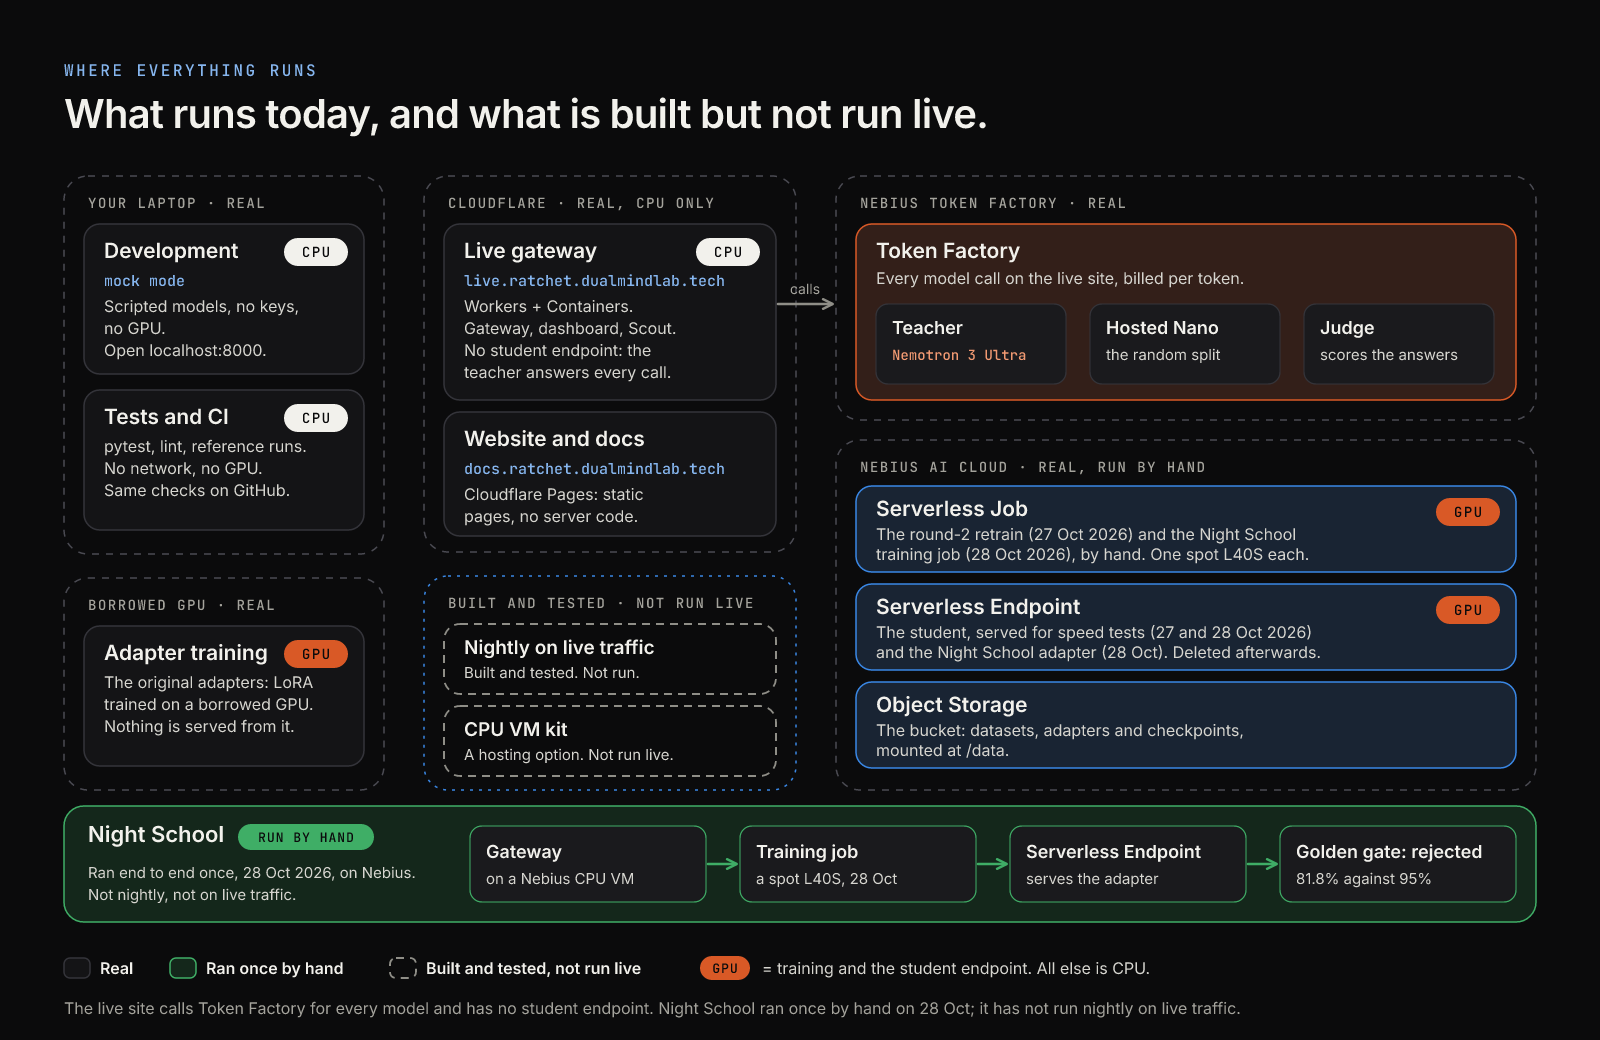
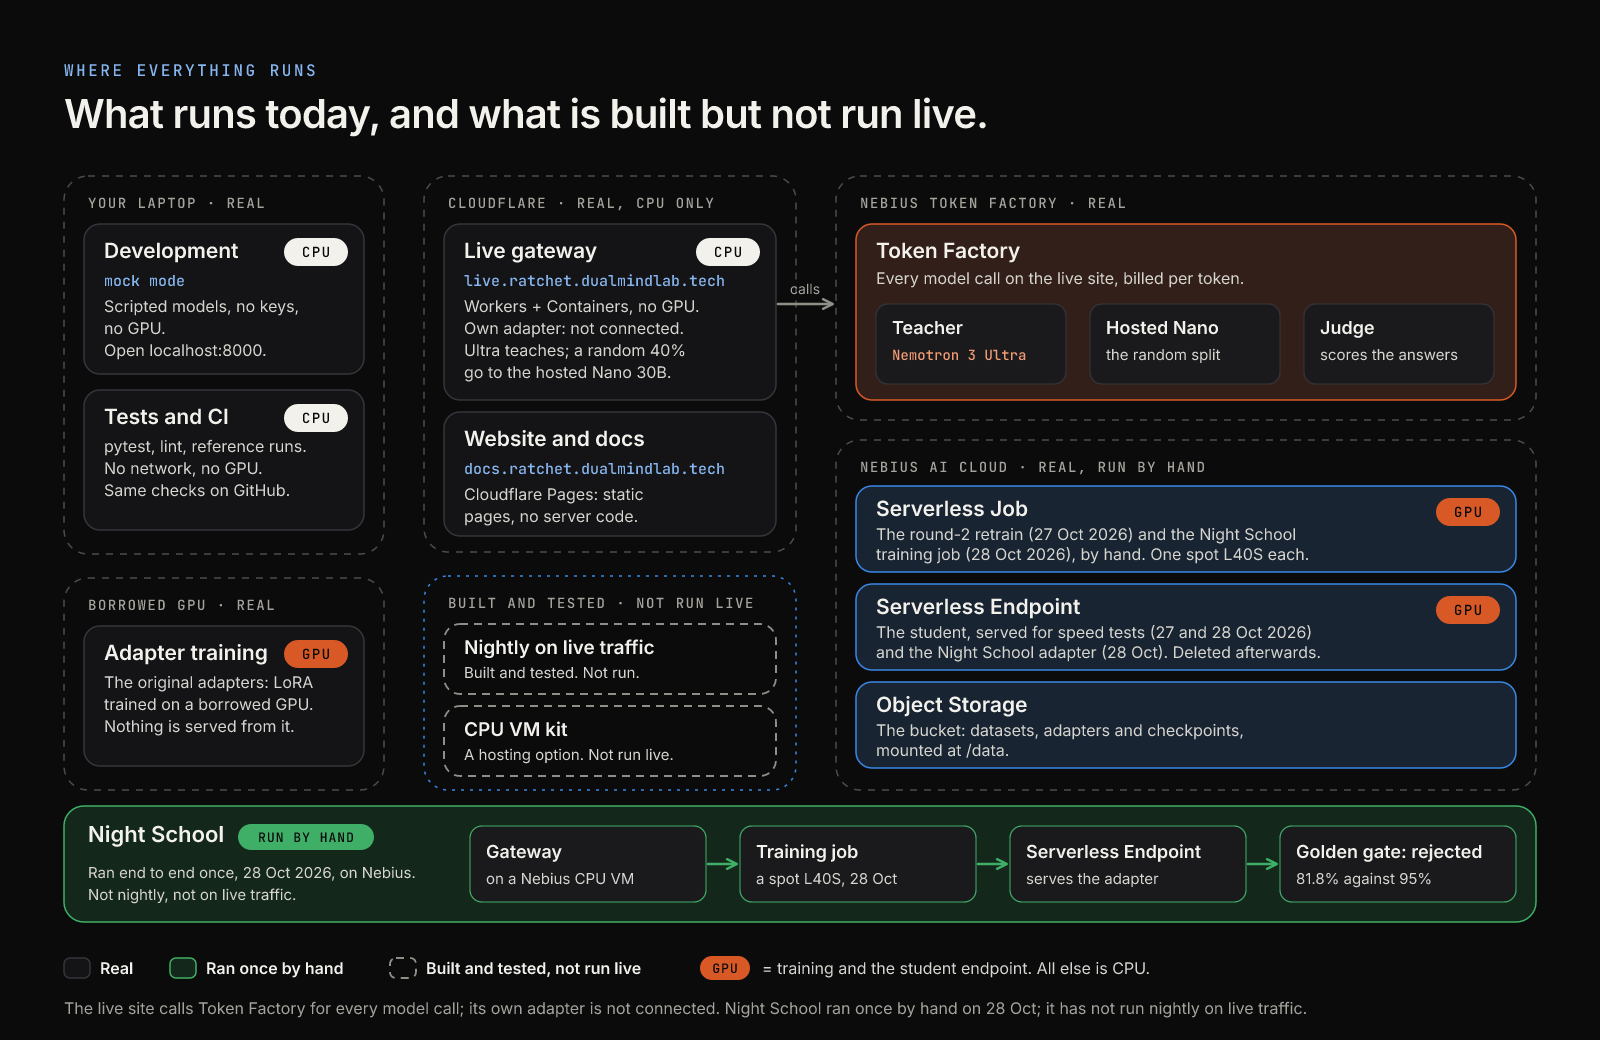
Fix the live split claim in the judges pack and web, add server_errors, stop the receipts 401, remove bare zeros
server_errors counts failed model calls and gateway 5xx only, so refused keys no longer show as errors. The public /judges page no longer calls the private /ratchet/receipts.

Changed region(s): [[0.2812, 0.9538, 0.8125, 0.9846], [0.2812, 0.2769, 0.4375, 0.3692]]

diff --git a/web/src/lib/measured-model.ts b/web/src/lib/measured-model.ts
@@ -348,7 +348,10 @@ export interface Persistent {
     student_tokens_in: number;
     student_tokens_out: number;
     cost_usd: number;
+    /** Every failures row, a refused key included. Kept for compatibility; the pages show `server_errors`. */
     errors: number;
+    /** Failed model calls and the gateway's own 5xx only. Absent from a Worker that has not started counting it. */
+    server_errors?: number;
     scout_runs: number;
   };
 }
@@ -362,6 +365,10 @@ export function parsePersistent(raw: unknown): Persistent | null {
   if (r.recorded !== true || typeof r.since !== "string" || typeof r.totals !== "object" || r.totals === null) return null;
   const t = r.totals as Record<string, unknown>;
   const totals = {} as Persistent["totals"];
+  if (t.server_errors !== undefined) {
+    if (typeof t.server_errors !== "number" || !Number.isFinite(t.server_errors) || t.server_errors < 0) return null;
+    totals.server_errors = t.server_errors;
+  }
   for (const k of TOTAL_KEYS) {
     const v = t[k];
     if (typeof v !== "number" || !Number.isFinite(v) || v < 0) return null;
@@ -377,7 +384,7 @@ export function hasLiveTraffic(p: Persistent | null): p is Persistent {
 
 export interface LiveLine {
   headline: string;
-  items: { label: string; value: string }[];
+  items: { label: string; value: string; hint?: string }[];
   note: string | null;
 }
 
@@ -387,12 +394,15 @@ export function liveLine(p: Persistent): LiveLine {
   const items = [
     { label: "Requests", value: fmtInt(t.requests) },
     { label: "Teacher", value: fmtInt(t.requests_teacher) },
-    { label: "Random split", value: fmtInt(t.requests_split) },
-    { label: "Student", value: fmtInt(t.requests_student) },
+    t.requests_split > 0 ? { label: "Random split", value: fmtInt(t.requests_split), hint: "sent to the hosted Nano 30B" } : { label: "Random split", value: "none so far", hint: "no requests sent to the hosted Nano 30B yet" },
+    t.requests_student > 0 ? { label: "Student", value: fmtInt(t.requests_student) } : { label: "Student", value: "none", hint: "Ratchet's own adapter is not connected to the live site" },
     { label: "Token Factory cost", value: fmtUsd(t.cost_usd) },
-    { label: "Scout runs", value: fmtInt(t.scout_runs) },
-    { label: "Errors", value: fmtInt(t.errors) },
+    t.scout_runs > 0 ? { label: "Scout runs", value: fmtInt(t.scout_runs) } : { label: "Scout runs", value: "none so far" },
   ];
+  // Server errors: failed model calls and gateway 5xx. A refused key or a limit is not one, so `errors` is never shown.
+  if (t.server_errors !== undefined) {
+    items.push(t.server_errors === 0 ? { label: "Server errors", value: "none", hint: "no failed model calls" } : { label: "Server errors", value: fmtInt(t.server_errors), hint: "failed model calls" });
+  }
   const tokens = t.student_tokens_in + t.student_tokens_out;
   if (tokens > 0) items.splice(5, 0, { label: "Student tokens", value: fmtInt(tokens) });
   return {
@@ -408,12 +418,12 @@ export function nightSchoolWording(d: MeasuredData): { versions: string; pipelin
   if (d.nightschool.present && v) {
     const ran = `Night School ran end to end once on Nebius, by hand (${fmtDay(d.nightschool.date ?? "")}). The golden gate rejected ${v}, so it was never made live. The loop has not run nightly on live traffic.`;
     return {
-      versions: `No version has served on this live gateway, and the teacher answers every request. ${ran}`,
+      versions: `No version of Ratchet's own adapter has served on this live gateway; Ultra teaches, and a random 40% of eligible requests are answered by the hosted Nano 30B. ${ran}`,
       pipeline: ran,
     };
   }
   return {
-    versions: "No version on this live gateway: the nightly loop is built and tested but has not run on live traffic, so the teacher answers every request.",
+    versions: "No version on this live gateway: the nightly loop is built and tested but has not run on live traffic. Ratchet's own adapter is not connected to it; a random 40% of eligible requests are answered by the hosted Nano 30B.",
     pipeline: "The nightly loop is built and tested but has not run on live traffic.",
   };
 }

diff --git a/web/src/pages/judges/check.tsx b/web/src/pages/judges/check.tsx
@@ -128,8 +128,8 @@ export function SponsorsChapter() {
 
 const LIMITS = [
   "The adapters are small (Nemotron 3 Nano 4B, LoRA) and the published ones were trained on a borrowed GPU; the round-2 recipe was also retrained once on Nebius AI Cloud. At a 95% precision bar the text-to-SQL student answers 1 of 86 questions on exam 1 and none on exam 2, so it does not replace the teacher.",
-  "The main site's dashboard and chapters read the live gateway: its numbers come from real Token Factory calls, its teacher answers every request, and its ledger lives in the container's /tmp, so a restart empties it.",
-  "The gateway's live mode runs on Nebius Token Factory (a smoke run and the live gateway). The live gateway has no student endpoint yet, so the teacher answers every request; the student was served by hand, in two short sessions, on a Nebius endpoint for speed tests (then deleted), Night School ran end to end once on Nebius, by hand (28 Oct 2026), and the golden gate rejected that student, so it was never made live; the one-command Nebius host is built and tested offline, ready to run with make nebius-plan, and the nightly loop has not run nightly on live traffic. The web front end and the live gateway run on Cloudflare.",
+  "The main site's dashboard and chapters read the live gateway: its numbers come from real Token Factory calls, every model call on it runs on Token Factory, and its ledger lives in the container's /tmp, so a restart empties it.",
+  "The gateway's live mode runs on Nebius Token Factory (a smoke run and the live gateway). Ratchet's own adapter is not connected to the live gateway, where a random 40% of eligible requests are answered by the hosted Nano 30B; the student was served by hand, in two short sessions, on a Nebius endpoint for speed tests (then deleted), Night School ran end to end once on Nebius, by hand (28 Oct 2026), and the golden gate rejected that student, so it was never made live; the one-command Nebius host is built and tested offline, ready to run with make nebius-plan, and the nightly loop has not run nightly on live traffic. The web front end and the live gateway run on Cloudflare.",
   "Scout's live runs were all answered by the teacher; no trained student has served a Scout call. The Scout page runs on a mock research world unless the gateway is live.",
   "The ledger is a single SQLite file, written by one gateway process.",
 ];

diff --git a/web/src/pages/judges/inside-b.tsx b/web/src/pages/judges/inside-b.tsx
@@ -7,7 +7,7 @@ import { Button } from "@/components/ui/button";
 import { RealBadge } from "@/components/ui/real-badge";
 import { cn, fmtInt, fmtPct, fmtUsd } from "@/lib/utils";
 import { getJson, useGateway, useJudges } from "./data";
-import { alarmProgress, focusVersion, latestGlobalPeriod, nusdToUsd, shortHash, type Fetched } from "./judges-model";
+import { receiptsPath, alarmProgress, focusVersion, latestGlobalPeriod, nusdToUsd, shortHash, type Fetched } from "./judges-model";
 import { Chapter, Command, Facts, Loading, Meter, Panel, Unavailable } from "./ui";
 
 type Obj = Record<string, unknown>;
@@ -77,7 +77,7 @@ export function CertificateChapter() {
         <p className="text-[13.5px] text-muted">
           {stats?.mode === "mock"
             ? "No version yet."
-            : (MEASURED ? nightSchoolWording(MEASURED).versions : "No version on this live gateway: the teacher answers every request.")}
+            : (MEASURED ? nightSchoolWording(MEASURED).versions : "No version of Ratchet's own adapter on this live gateway.")}
         </p>
       ) : (
         <div className="space-y-4">
@@ -283,7 +283,7 @@ export function ProofChapter() {
 
 export function ReceiptsChapter() {
   const { status } = useJudges();
-  const list = useGateway<{ receipts?: { period: number; global?: boolean }[]; sealed_through?: number; label?: string }>("/ratchet/receipts");
+  const list = useGateway<{ receipts?: { period: number; global?: boolean }[]; sealed_through?: number; label?: string }>(receiptsPath("/ratchet/receipts"));
   const period = list.state === "ok" ? latestGlobalPeriod(list.data) : null;
   const doc = useGateway<Obj>(period != null ? `/ratchet/receipts/${period}` : null);
   const m = obj(doc.state === "ok" ? doc.data.manifest : {});
@@ -316,6 +316,8 @@ export function ReceiptsChapter() {
     >
       {list.state === "error" ? (
         <Unavailable path="/ratchet/receipts" read={list} />
+      ) : list.state === "idle" ? (
+        <p className="text-[13.5px] text-muted">Savings receipts are private to key holders, so this public page does not read them. How a receipt is built and checked is described here.</p>
       ) : list.state !== "ok" ? (
         <Loading what="the receipts" />
       ) : period == null ? (

diff --git a/web/src/pages/judges/inside-a.tsx b/web/src/pages/judges/inside-a.tsx
@@ -10,7 +10,7 @@ import { MEASURED, TileCard, Traffic } from "@/components/measured/measured";
 import { nightSchoolTile, nightSchoolWording, rejectedVersion } from "@/lib/measured-model";
 import { TONE_DOT } from "@/pages/dashboard/ui";
 import { useGatewayText, useGateway, useJudges } from "./data";
-import { latestGlobalPeriod, parseLeaves, routeTotals, routeWords, shortHash, stageOf, studentRoute } from "./judges-model";
+import { latestGlobalPeriod, receiptsPath, parseLeaves, routeTotals, routeWords, shortHash, stageOf, studentRoute } from "./judges-model";
 import { Chapter, Facts, Loading, Panel, Unavailable } from "./ui";
 
 // ---------- the loop in one picture ----------
@@ -107,7 +107,7 @@ interface Leaf {
 
 export function CascadeChapter() {
   const { stats, status, sent, statsRead } = useJudges();
-  const list = useGateway<{ receipts?: { period: number; global?: boolean }[] }>("/ratchet/receipts");
+  const list = useGateway<{ receipts?: { period: number; global?: boolean }[] }>(receiptsPath("/ratchet/receipts"));
   const period = list.state === "ok" ? latestGlobalPeriod(list.data) : null;
   const leaves = useGatewayText(period != null ? `/ratchet/receipts/${period}/leaves` : null);
   const parsed = leaves.state === "ok" ? (parseLeaves(leaves.data) as unknown as Leaf[]).slice(-8).reverse() : [];
@@ -180,7 +180,7 @@ export function CascadeChapter() {
                 ) : leaves.state === "error" ? (
                   <Unavailable path={`/ratchet/receipts/${period}/leaves`} read={leaves} />
                 ) : period == null ? (
-                  <p className="text-[13.5px] text-muted">{list.state === "ok" ? "No day has ended yet, so no sealed day to read from." : "Reading…"}</p>
+                  <p className="text-[13.5px] text-muted">{list.state === "ok" ? "No day has ended yet, so no sealed day to read from." : list.state === "idle" ? "Sealed days are private to key holders, so the public page does not read them." : "Reading…"}</p>
                 ) : (
                   <>
                     <RequestRows

diff --git a/web/src/pages/dashboard/economics.tsx b/web/src/pages/dashboard/economics.tsx
@@ -478,7 +478,7 @@ function DailyTip(p: TooltipContentProps) {
           <span className="text-muted">by GPU-hours{d.savings_pct_gpu_hours != null && ` (${fmtSignedPct(d.savings_pct_gpu_hours)})`}</span>
         </div>
         <div className="border-t border-line pt-1.5 text-muted">
-          {fmtInt(d.student_served)} student answers · endpoint {fmtHours(d.endpoint_hours)} ({fmtMoney(d.endpoint_usd)})
+          {fmtInt(d.student_served)} student answers · {d.endpoint_hours > 0 || d.endpoint_usd > 0 ? `endpoint ${fmtHours(d.endpoint_hours)} (${fmtMoney(d.endpoint_usd)})` : "no endpoint uptime recorded"}
           {d.training_usd > 0 && <> · training {fmtMoney(d.training_usd)}</>}
         </div>
       </div>
@@ -670,7 +670,10 @@ function Full({ report, mock, stale }: { report: CostReport; mock: boolean; stal
               <Rows
                 rows={[
                   report.teacher_usd != null && ["Teacher calls", fmtMoney(report.teacher_usd)],
-                  report.endpoint_usd != null && [`Endpoint, ${fmtHours(hours)}`, fmtMoney(report.endpoint_usd)],
+                  report.endpoint_usd != null &&
+                    (hours > 0 || report.endpoint_usd > 0
+                      ? [`Endpoint, ${fmtHours(hours)}`, fmtMoney(report.endpoint_usd)]
+                      : ["Endpoint", "no uptime recorded"]),
                   report.training_usd != null &&
                     (report.training_usd > 0 || (report.training_hours ?? 0) > 0) && [
                       `Training and evals, ${fmtHours(report.training_hours ?? 0)}`,

diff --git a/deploy/cloudflare-live/src/counters.ts b/deploy/cloudflare-live/src/counters.ts
@@ -12,7 +12,9 @@
 // PRIVACY: only the nine numbers below are ever read from a snapshot or stored: counts and dollars, never text, an address, a client or a
 // key. The instance id is a random hex string of the process, kept only to tell snapshots apart.
 
-/** The counters, in the order the page shows them. `requests` is the sum of the three route groups. */
+/** The counters, in the order the page shows them. `requests` is the sum of the three route groups. `errors` counts every failures row,
+ * a refused key included, and is kept only for compatibility; `server_errors` is the new key the pages show: failed model calls and
+ * the gateway's own 5xx, never an auth, rate, quota or budget refusal. */
 export const FIELDS = [
   "requests",
   "requests_teacher",
@@ -22,6 +24,7 @@ export const FIELDS = [
   "student_tokens_out",
   "cost_usd",
   "errors",
+  "server_errors",
   "scout_runs",
 ] as const;
 
@@ -59,7 +62,7 @@ export function parseSnapshot(raw: unknown): Snapshot | null {
   if (typeof r.instance !== "string" || !INSTANCE.test(r.instance)) return null;
   const values = emptyTotals();
   for (const f of FIELDS) {
-    const v = r[f];
+    const v = f === "server_errors" && r[f] === undefined ? 0 : r[f]; // a container from before the field counts none
     if (typeof v !== "number" || !Number.isFinite(v) || v < 0) return null;
     values[f] = v;
   }

diff --git a/web/src/components/companions/banter.ts b/web/src/components/companions/banter.ts
@@ -58,7 +58,7 @@ export function banterLines(f: Facts): Banter[] {
     { id: "gate2", lines: [N("Can I serve yet?", "happy"), U("The gate says not yet. The gate is strict. That's its job.")] },
     { id: "lineage", lines: [N("My training data comes with a signed record.", "proud"), U("Receipts. We like receipts here.")] },
     { id: "license", lines: [U("Closed models are refused as teachers."), N("And you're open. Lucky for you.", "happy")] },
-    { id: "live", lines: [N("Right now Ultra answers every live request.", "sad"), U("Yes. You're still in training. It suits you.")] },
+    { id: "live", lines: [N("Right now Ultra teaches, and a random share goes to the hosted Nano.", "sad"), U("Yes. You're still in training. It suits you.")] },
     { id: "nightschool", lines: [N("Night School turns Ultra's answers into lessons.", "happy"), U("Ran once on Nebius, by hand. The gate said no. Not run nightly yet.")] },
     { id: "oneline", lines: [N("One line changes: base_url.", "determined"), U("Even you could not get that wrong.")] },
     { id: "try", lines: [U("Three real tries a day on the live page."), N("No key, no account. Go on, poke the gateway!", "happy")] },

diff --git a/deploy/cloudflare-live/src/index.ts b/deploy/cloudflare-live/src/index.ts
@@ -34,7 +34,7 @@
 // keeps the gateway's aggregate counters itself. After each paid call, when someone reads the totals while the container is up, and when the
 // container's idle timeout expires, it reads GET /ratchet/counters from the container and adds the difference to what it holds (counters.ts
 // says how a restart is told apart and why nothing is counted twice). GET /ratchet/stats/persistent answers from the Durable Object without
-// waking the container: totals since the first record, requests by route group, student tokens, Token Factory cost, Scout runs, errors.
+// waking the container: totals since the first record, requests by route group, student tokens, Token Factory cost, Scout runs, errors and server errors.
 // Counts and dollars only, never an address, a prompt or a client. Nothing to configure and no secret: the binding is in wrangler.json.
 //
 // THE VISITOR'S ADDRESS: a request that came through the site's Pages proxy (web/public/_worker.js) reaches this Worker from Cloudflare, so its

diff --git a/web/src/pages/judges/judges-model.ts b/web/src/pages/judges/judges-model.ts
@@ -92,6 +92,14 @@ export function shortHash(h: string | null | undefined, head = 10, tail = 6): st
 }
 
 /** The newest receipt period the gateway sealed for the whole gateway (`global`), or null. */
+/**
+ * Receipts are private: `/ratchet/receipts` answers 401 without a reader key, and a 401 is a red console error on every
+ * visit. The public page holds no reader key, so it never asks; with one, the path is returned as it is.
+ */
+export function receiptsPath(path: string, readerKey: string | null = null): string | null {
+  return readerKey ? path : null;
+}
+
 export function latestGlobalPeriod(list: { receipts?: { period: number; global?: boolean }[] } | null | undefined): number | null {
   const ps = (list?.receipts ?? []).filter((r) => r.global).map((r) => r.period);
   return ps.length ? Math.max(...ps) : null;

diff --git a/web/src/pages/judges/stage-one.tsx b/web/src/pages/judges/stage-one.tsx
@@ -35,7 +35,7 @@ export const STAGE_ONE: StageOneItem[] = [
     id: "live-demo",
     requirement: "A live gateway that calls Token Factory",
     status: "real",
-    evidence: "Deployed on Cloudflare Containers, in live mode, with spending caps. A request to it is answered by Nemotron 3 Ultra on Token Factory. No trained student is served yet, so the teacher answers every request.",
+    evidence: "Deployed on Cloudflare Containers, in live mode, with spending caps. A request to it is answered by Nemotron 3 Ultra on Token Factory. Ratchet's own adapter is not connected to it: Ultra teaches, and a random 40% of eligible requests are answered by the hosted Nano 30B.",
     link: { label: "Open the live gateway", href: LIVE_PATH },
   },
   {

diff --git a/web/src/pages/dashboard/index.tsx b/web/src/pages/dashboard/index.tsx
@@ -119,7 +119,7 @@ function ColdStart({ mock }: { mock: boolean }) {
           {mock
             ? "Send requests to /v1/chat/completions with an X-Ratchet-Task header."
             : "Its own ledger lives on the container's disk, so a restart empties it. The totals kept across restarts are above when there are any; below, what was measured on real runs, each with its date and the evidence it was read from."}{" "}
-          {MEASURED ? nightSchoolWording(MEASURED).pipeline : ""} The teacher answers every request here.
+          {MEASURED ? nightSchoolWording(MEASURED).pipeline : ""} Ultra teaches here, and a random 40% of eligible requests are answered by the hosted Nano 30B.
         </p>
       </div>
     </div>

diff --git a/web/src/components/tour/site-tour-model.ts b/web/src/components/tour/site-tour-model.ts
@@ -1,6 +1,6 @@
 // The 60-second tour's steps and what an avatar says, as data and pure functions (no DOM, no JSX): `tests/site-tour-model.test.mjs`.
 // The numbers in the exam step come from exams.json through the caller; nothing is typed here. Wording is held to the site's own:
-// the teacher answers the live gateway's requests, no trained student is served yet, and training on live traffic has not run.
+// Ratchet's own adapter is not connected to the live gateway (a random 40% of eligible requests go to the hosted Nano 30B), and training on live traffic has not run.
 import type { Expression } from "@/components/avatar/avatar-model";
 
 export type StepPath = "/" | "/live" | "any";
